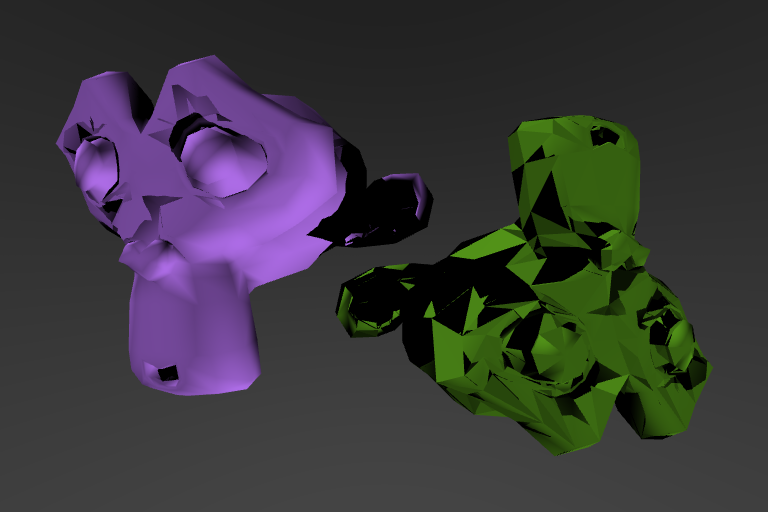
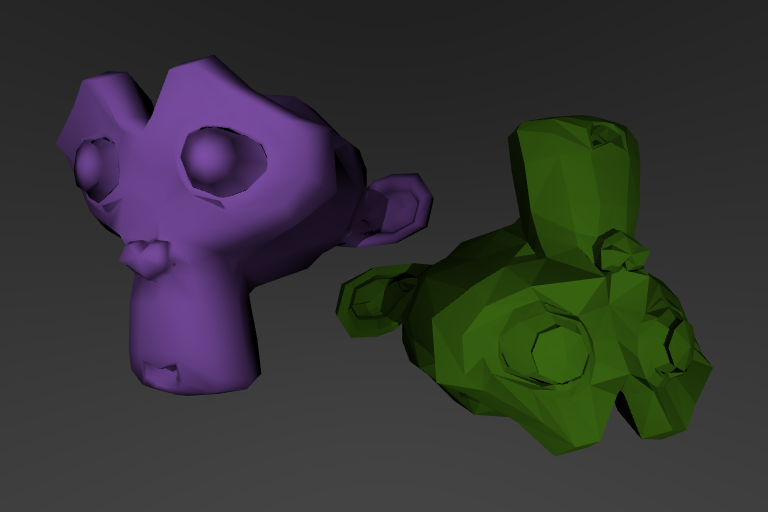
Mon Apr 14 10:36:27 CEST 2025

diff --git a/src/synthese.cpp b/src/synthese.cpp
@@ -15,13 +15,15 @@ void scene1(unsigned int width, unsigned int height) {
     Scene scene("01 - Sphere and Plane");
 
     /* ---- Lights ---- */
-    scene.add(new DirectionalLight(Color(1.0f, 1.0f, 1.0f), Vector(-4.0f, 6.0f, 1.0f)));
-    scene.add(new DirectionalLight(Color(1.0f, 1.0f, 1.0f), Vector(4.0f, 6.0f, 1.0f)));
+    scene.add(new DirectionalLight(White(), Vector(-4.0f, 6.0f, 1.0f)));
+    scene.add(new DirectionalLight(White(), Vector(4.0f, 6.0f, 1.0f)));
 
     /* ---- Objects ---- */
     scene.add(new Plane([](const Point& point) {
         return std::fmod(floor(point.x) + floor(point.z), 2.0f) == 0.0f ? White() : Black(); // Checker
-    }, Point(0.0f, -1.0f, 0.0f), Vector(0.0f, 1.0f, 0.0f))); {
+    }, Point(0.0f, -1.0f, 0.0f), Vector(0.0f, 1.0f, 0.0f)));
+
+    /* Sphere */ {
         Point center(0.0f, 0.0f, -3.0f);
         scene.add(new Sphere([center](const Point& point) {
             Vector v = (normalize(point - center) + Vector(1.0f, 1.0f, 1.0f)) / 2.0f;
@@ -57,12 +59,14 @@ void scene3(unsigned int width, unsigned int height) {
     Scene scene("03 - Cubes");
 
     /* ---- Lights ---- */
-    scene.add(new DirectionalLight(Color(1.0f, 1.0f, 1.0f), Vector(-4.0f, 6.0f, 1.0f)));
+    scene.add(new DirectionalLight(White(), Vector(-4.0f, 6.0f, 1.0f)));
 
     /* ---- Objects ---- */
     scene.add(new Plane([](const Point& point) {
         return std::fmod(floor(point.x) + floor(point.z), 2.0f) == 0.0f ? White() : Black(); // Checker
-    }, Point(0.0f, -1.0f, 0.0f), Vector(0.0f, 1.0f, 0.0f))); {
+    }, Point(0.0f, -1.0f, 0.0f), Vector(0.0f, 1.0f, 0.0f)));
+
+    /* Cubes */ {
         std::vector<Point> positions;
         read_positions("data/synthese/cube.obj", positions);
 
@@ -78,7 +82,7 @@ void scene4(unsigned int width, unsigned int height) {
     Scene scene("04 - Weird Spheres");
 
     /* ---- Lights ---- */
-    scene.add(new DirectionalLight(Color(1.0f, 1.0f, 1.0f), Vector(-4.0f, 6.0f, 4.0f)));
+    scene.add(new DirectionalLight(White(), Vector(-4.0f, 6.0f, 4.0f)));
 
     /* ---- Objects ---- */
     scene.add(new Plane([](const Point& point) {
@@ -120,8 +124,8 @@ void scene5(unsigned int width, unsigned int height) {
     Scene scene("05 - Dodecahedron and Cube");
 
     /* ---- Lights ---- */
-    scene.add(new DirectionalLight(Color(1.0f, 1.0f, 1.0f), Vector(-4.0f, 6.0f, 1.0f)));
-    scene.add(new DirectionalLight(Color(1.0f, 1.0f, 1.0f), Vector(4.0f, 6.0f, 1.0f)));
+    scene.add(new DirectionalLight(White(), Vector(-4.0f, 6.0f, 1.0f)));
+    scene.add(new DirectionalLight(White(), Vector(4.0f, 6.0f, 1.0f)));
 
     /* ---- Objects ---- */
     scene.add("data/synthese/dodecahedron.obj", translate(-2.0f, 0.0f, -4.0f).scale(2.0f), White());
@@ -138,8 +142,11 @@ void scene6(unsigned int width, unsigned int height) {
     scene.setHighSkyColor(0.1f, 0.1f, 0.1f);
 
     /* ---- Lights ---- */
-    scene.add(new DirectionalLight(Color(1.0f, 1.0f, 1.0f), Vector(-2.0f, 2.0f, 1.0f)));
-    scene.add(new DirectionalLight(Color(1.0f, 1.0f, 1.0f), Vector(2.0f, -2.0f, 1.0f)));
+    // scene.add(new DirectionalLight(White(), Vector(-2.0f, 2.0f, 1.0f)));
+    // scene.add(new DirectionalLight(White(), Vector(2.0f, -2.0f, 1.0f)));
+
+    scene.add(new PointLight(White(), Point(-1.0f, 1.0f, 1.0f), 4.5f));
+    scene.add(new PointLight(White(), Point(1.0f, -1.0f, 1.0f), 4.5f));
 
     /* ---- Objects ---- */
     MeshIOData suzanne;
@@ -155,7 +162,7 @@ void scene7(unsigned int width, unsigned int height) {
     Scene scene("07 - Sphere Rings");
 
     /* ---- Lights ---- */
-    scene.add(new DirectionalLight(Color(1.0f, 1.0f, 1.0f), Vector(0.0f, 0.0f, 1.0f)));
+    scene.add(new DirectionalLight(White(), Vector(0.0f, 0.0f, 1.0f)));
 
     /* ---- Objects ---- */
     /* Sphere Rings */ {
@@ -187,14 +194,12 @@ void scene7(unsigned int width, unsigned int height) {
 void scene8(unsigned int width, unsigned int height) {
     Scene scene("08 - Let There Be Dragons");
 
-    /* ---- Sky ---- */
-    scene.setLowSkyColor(0.3f, 0.3f, 0.3f);
-    scene.setHighSkyColor(0.1f, 0.1f, 0.1f);
-
     /* ---- Lights ---- */
-    scene.add(new DirectionalLight(Color(1.0f, 1.0f, 1.0f), Vector(0.0f, 2.0f, 1.0f)));
+    scene.add(new DirectionalLight(White(), Vector(0.0f, 2.0f, 1.0f)));
 
     /* ---- Objects ---- */
+    scene.add(new Plane(Color(0.3f, 0.3f, 0.3f), Point(0.0f, -1.0f, 0.0f), Vector(0.0f, 1.0f, 0.0f)));
+
     std::vector<Point> dragon;
     std::vector<uint> indices;
     read_indexed_positions("data/synthese/dragon80k.obj", dragon, indices);
@@ -202,7 +207,7 @@ void scene8(unsigned int width, unsigned int height) {
     scene.add(dragon, indices, translate(0.0f, 0.75f, -4.0f).scale(6.0f).rotateY(75.0f), [](const Point& point) {
         return lerp(White(), Color(0.922f, 0.216f, 0.216f), std::clamp(point.y / 2.0f, 0.0f, 1.0f));
     });
-    scene.add(dragon, indices, translate(-0.5f, -0.75f, -1.5f).scale(1.5f).rotateY(-75.0f), Color(0.3f, 0.3f, 1.0f));
+    scene.add(dragon, indices, translate(-0.5f, -0.5f, -1.5f).scale(1.5f).rotateY(-75.0f), Color(0.3f, 0.3f, 1.0f));
     scene.add(dragon, indices, translate(0.5f, -0.75f, -1.2f).scale(0.5f).rotateY(75.0f), Color(0.3f, 1.0f, 0.5f));
 
     scene.render(width, height);

diff --git a/src/synthese/Scene.cpp b/src/synthese/Scene.cpp
@@ -84,18 +84,19 @@ void Scene::add(const std::string& meshPath, const mat4& transform, const Color&
 }
 
 void Scene::add(const MeshIOData& data, const mat4& transform, const ColorFunc& getColor, bool smooth) {
-    if(smooth) { } else {
-        add(data.positions, data.indices, transform, getColor);
-    }
-    for(unsigned int i = 0 ; i + 2 < data.indices.size() ; i += 3) {
-        unsigned int index0 = data.indices.at(i);
-        unsigned int index1 = data.indices.at(i + 1);
-        unsigned int index2 = data.indices.at(i + 2);
+    if(smooth) {
+        for(unsigned int i = 0 ; i + 2 < data.indices.size() ; i += 3) {
+            unsigned int index0 = data.indices.at(i);
+            unsigned int index1 = data.indices.at(i + 1);
+            unsigned int index2 = data.indices.at(i + 2);
 
-        add(new MeshTriangle(getColor,
-                             Vertex(transform * data.positions.at(index0), data.normals.at(index0)),
-                             Vertex(transform * data.positions.at(index1), data.normals.at(index1)),
-                             Vertex(transform * data.positions.at(index2), data.normals.at(index2))));
+            add(new MeshTriangle(getColor,
+                                 Vertex(transform * data.positions.at(index0), data.normals.at(index0)),
+                                 Vertex(transform * data.positions.at(index1), data.normals.at(index1)),
+                                 Vertex(transform * data.positions.at(index2), data.normals.at(index2))));
+        }
+    } else {
+        add(data.positions, data.indices, transform, getColor);
     }
 }
 
